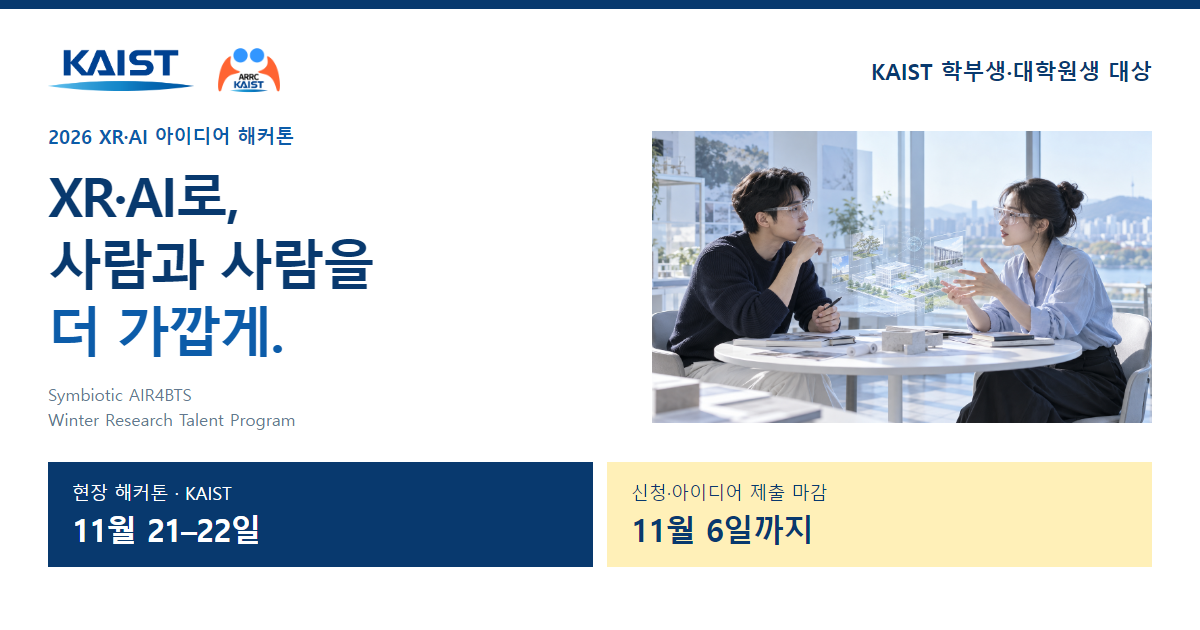
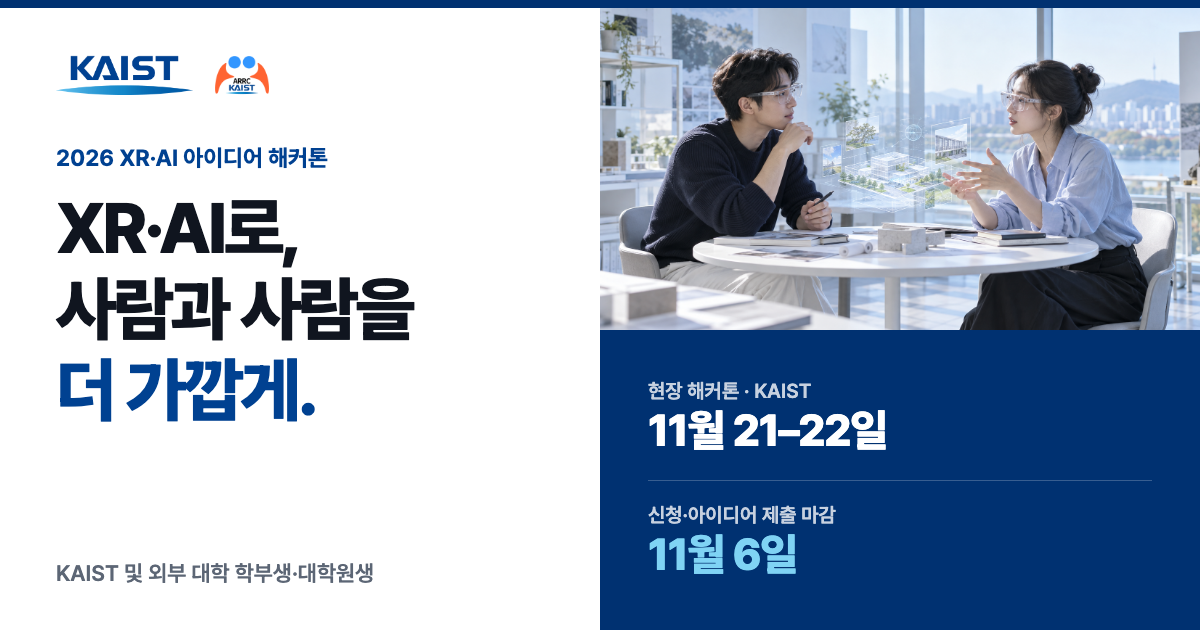
Refresh share image; simplify schedule labels; fix CG&I Society name
- Redesign og-image with Pretendard, ARRC tokens, wide two-person photo,
  and updated eligibility (KAIST and other universities)
- Shorten hackathon schedule items to 연구·개발
- Correct sponsor name to 한국정보과학회 CG&I소사이어티

diff --git a/tools/og-image.html b/tools/og-image.html
@@ -2,20 +2,37 @@
 <html lang="ko">
 <meta charset="utf-8">
 <title>KAIST ARRC 공유 이미지</title>
+<link rel="stylesheet" href="https://cdn.jsdelivr.net/gh/orioncactus/pretendard@v1.3.9/dist/web/variable/pretendardvariable-dynamic-subset.min.css">
 <style>
-*{box-sizing:border-box}body{margin:0;width:1200px;height:630px;background:#fff;color:#08396e;font-family:'Malgun Gothic',sans-serif}
-main{height:630px;padding:38px 48px;border-top:9px solid #08396e}
-header{display:flex;align-items:center;gap:24px;height:46px}header img{width:146px;height:auto}header img+img{width:62px}header span{margin-left:auto;font-size:22px;font-weight:700}
-.hero{display:grid;grid-template-columns:1fr 500px;gap:28px;margin-top:30px;align-items:center}
-.eyebrow{font-size:19px;font-weight:700;margin:0 0 12px;color:#0c5ca9}
-h1{font-size:54px;line-height:1.25;letter-spacing:-2.5px;margin:0;font-weight:900}h1 em{font-style:normal;color:#0c5ca9}
-.program{font-size:17px;line-height:1.5;margin:17px 0 0;color:#61788f}
-.photo{width:500px;height:292px;object-fit:cover}
-footer{display:grid;grid-template-columns:1fr 1fr;margin-top:30px;gap:14px}footer div{padding:18px 24px;background:#08396e;color:white}footer div+div{background:#fff0b8;color:#08396e}footer span{display:block;font-size:18px;margin-bottom:4px}footer strong{font-size:31px;letter-spacing:-.8px}
+/* Tokens mirror docs/site.css (ARRC site colors) */
+:root{--ink:#10151f;--brand:#004191;--navy:#003171;--sky:#18a8e0;--muted:#5c6675;--on-navy:rgba(255,255,255,.78)}
+*{box-sizing:border-box}
+body{margin:0;width:1200px;height:630px;overflow:hidden;background:#fff;color:var(--ink);font-family:"Pretendard Variable",Pretendard,sans-serif;word-break:keep-all}
+main{display:grid;grid-template-columns:600px 600px;grid-template-rows:322px 300px;height:630px;border-top:8px solid var(--navy)}
+.copy{grid-row:1/3;padding:40px 0 0 56px;display:flex;flex-direction:column}
+.logos{display:flex;align-items:center;gap:22px}.logos img{height:40px;width:auto}.logos img+img{height:54px}
+.kicker{margin:42px 0 16px;font-size:23px;font-weight:700;color:var(--brand)}
+h1{margin:0;font-size:70px;line-height:1.16;letter-spacing:-.045em;font-weight:800}
+h1 em{font-style:normal;color:var(--brand)}
+.audience{margin:auto 0 44px;font-size:22px;font-weight:600;color:var(--muted)}
+.photo{margin:0}.photo img{display:block;width:600px;height:322px;object-fit:cover;object-position:50% 70%}
+.dates{display:flex;flex-direction:column;justify-content:center;gap:22px;background:var(--navy);color:#fff;padding:0 48px}
+.dates div+div{padding-top:22px;border-top:1px solid rgba(255,255,255,.22)}
+.dates span{display:block;font-size:20px;font-weight:600;color:var(--on-navy);margin-bottom:2px}
+.dates strong{font-size:44px;font-weight:800;letter-spacing:-.03em;line-height:1.2}
+.dates div+div strong{color:#7fd3f4}
 </style>
 <main>
-<header><img src="../docs/assets/kaist-logo.png" alt="KAIST"><img src="../docs/assets/arrc-logo.png" alt="ARRC"><span>KAIST 학부생·대학원생 대상</span></header>
-<section class="hero"><div><p class="eyebrow">2026 XR·AI 아이디어 해커톤</p><h1>XR·AI로,<br>사람과 사람을<br><em>더 가깝게.</em></h1><p class="program">Symbiotic AIR4BTS<br>Winter Research Talent Program</p></div><img class="photo" src="../docs/assets/symbiotic-air-face-to-face.png" alt="AR 안경을 착용하고 마주 앉아 대화하는 두 사람"></section>
-<footer><div><span>현장 해커톤 · KAIST</span><strong>11월 21–22일</strong></div><div><span>신청·아이디어 제출 마감</span><strong>11월 6일까지</strong></div></footer>
+  <section class="copy">
+    <div class="logos"><img src="../docs/assets/kaist-logo.png" alt="KAIST"><img src="../docs/assets/arrc-logo.png" alt="ARRC"></div>
+    <p class="kicker">2026 XR·AI 아이디어 해커톤</p>
+    <h1>XR·AI로,<br>사람과 사람을<br><em>더 가깝게.</em></h1>
+    <p class="audience">KAIST 및 외부 대학 학부생·대학원생</p>
+  </section>
+  <figure class="photo"><img src="../docs/assets/symbiotic-air-face-to-face.png" alt="AR 안경을 착용하고 마주 앉아 대화하는 두 사람"></figure>
+  <footer class="dates">
+    <div><span>현장 해커톤 · KAIST</span><strong>11월 21–22일</strong></div>
+    <div><span>신청·아이디어 제출 마감</span><strong>11월 6일</strong></div>
+  </footer>
 </main>
 </html>

diff --git a/docs/details/index.html b/docs/details/index.html
@@ -156,13 +156,13 @@
         <li><time>09:00–10:00</time><div>우운택 센터장 Symbiotic AIR 기본 설명<small>1시간</small></div></li>
         <li><time>10:00–12:00</time><div>센터 연구원 라이브러리·기본 프레임워크 설명<small>2시간</small></div></li>
         <li class="break"><time>12:00–13:00</time><div>점심</div></li>
-        <li><time>13:00–18:00+</time><div>2인 1팀 자유 개발<small>5시간 이상</small></div></li>
+        <li><time>13:00–18:00+</time><div>연구·개발<small>5시간 이상</small></div></li>
       </ol></article>
       <article><h4><span>2일차 · 09:00 시작</span>피드백에서 발표로</h4><ol>
         <li><time>09:00–10:00</time><div>중간점검 및 연구교수 피드백<small>1시간</small></div></li>
-        <li><time>10:00–13:00</time><div>2인 1팀 자유 개발<small>3시간</small></div></li>
+        <li><time>10:00–13:00</time><div>연구·개발<small>3시간</small></div></li>
         <li class="break"><time>13:00–14:00</time><div>점심</div></li>
-        <li><time>14:00–17:00</time><div>2인 1팀 자유 개발<small>3시간</small></div></li>
+        <li><time>14:00–17:00</time><div>연구·개발<small>3시간</small></div></li>
         <li class="finale"><time>17:00–</time><div>발표</div></li>
       </ol></article>
     </div>
@@ -191,7 +191,7 @@
 
   <footer class="foot">
     <a class="logos" href="https://arrc.kaist.ac.kr/" aria-label="KAIST ARRC 공식 홈페이지"><img src="../assets/kaist-logo.png" alt="KAIST"><img src="../assets/arrc-logo.png" alt="ARRC"></a>
-    <div><p>주관: KAIST 증강현실연구센터 (ARRC) · KI-ITAIC</p><p>후원: KAIST Graduate School of Metaverse · 한국정보과학회 CGAI 소사이어티</p></div>
+    <div><p>주관: KAIST 증강현실연구센터 (ARRC) · KI-ITAIC</p><p>후원: KAIST Graduate School of Metaverse · 한국정보과학회 CG&amp;I소사이어티</p></div>
     <div class="contact"><a href="mailto:arrc@kaist.ac.kr">arrc@kaist.ac.kr</a><br><a href="https://arrc.kaist.ac.kr">arrc.kaist.ac.kr</a></div>
     <p class="version">포스터 버전 · 2026.10.02</p>
   </footer>

diff --git a/docs/index.html b/docs/index.html
@@ -99,7 +99,7 @@
 
   <footer class="foot">
     <a class="logos" href="https://arrc.kaist.ac.kr/" aria-label="KAIST ARRC 공식 홈페이지"><img src="assets/kaist-logo.png" alt="KAIST"><img src="assets/arrc-logo.png" alt="ARRC"></a>
-    <div><p>주관: KAIST 증강현실연구센터 (ARRC) · KI-ITAIC</p><p>후원: KAIST Graduate School of Metaverse · 한국정보과학회 CGAI 소사이어티</p></div>
+    <div><p>주관: KAIST 증강현실연구센터 (ARRC) · KI-ITAIC</p><p>후원: KAIST Graduate School of Metaverse · 한국정보과학회 CG&amp;I소사이어티</p></div>
     <div class="contact"><a href="mailto:arrc@kaist.ac.kr">arrc@kaist.ac.kr</a><br><a href="details/">프로그램 상세 안내</a></div>
     <p class="version">포스터 버전 · 2026.10.02</p>
   </footer>

diff --git a/notes/program.md b/notes/program.md
@@ -12,9 +12,9 @@
 
 - 1일차 09:00–10:00: 우운택 센터장 Symbiotic AIR 기본 설명 (1시간)
 - 1일차 10:00–12:00: 센터 연구원 라이브러리·기본 프레임워크 설명 (2시간)
-- 1일차 13:00–18:00+: 2인 1팀 자유 개발 (5시간 이상)
+- 1일차 13:00–18:00+: 연구·개발 (5시간 이상)
 - 2일차 09:00–10:00: 중간점검 및 연구교수 피드백 (1시간)
-- 2일차 10:00–13:00 / 14:00–17:00: 2인 1팀 자유 개발 (6시간 이상)
+- 2일차 10:00–13:00 / 14:00–17:00: 연구·개발 (6시간 이상)
 - 2일차 17:00–: 발표
 
 ## 아이디어 제출 안내
